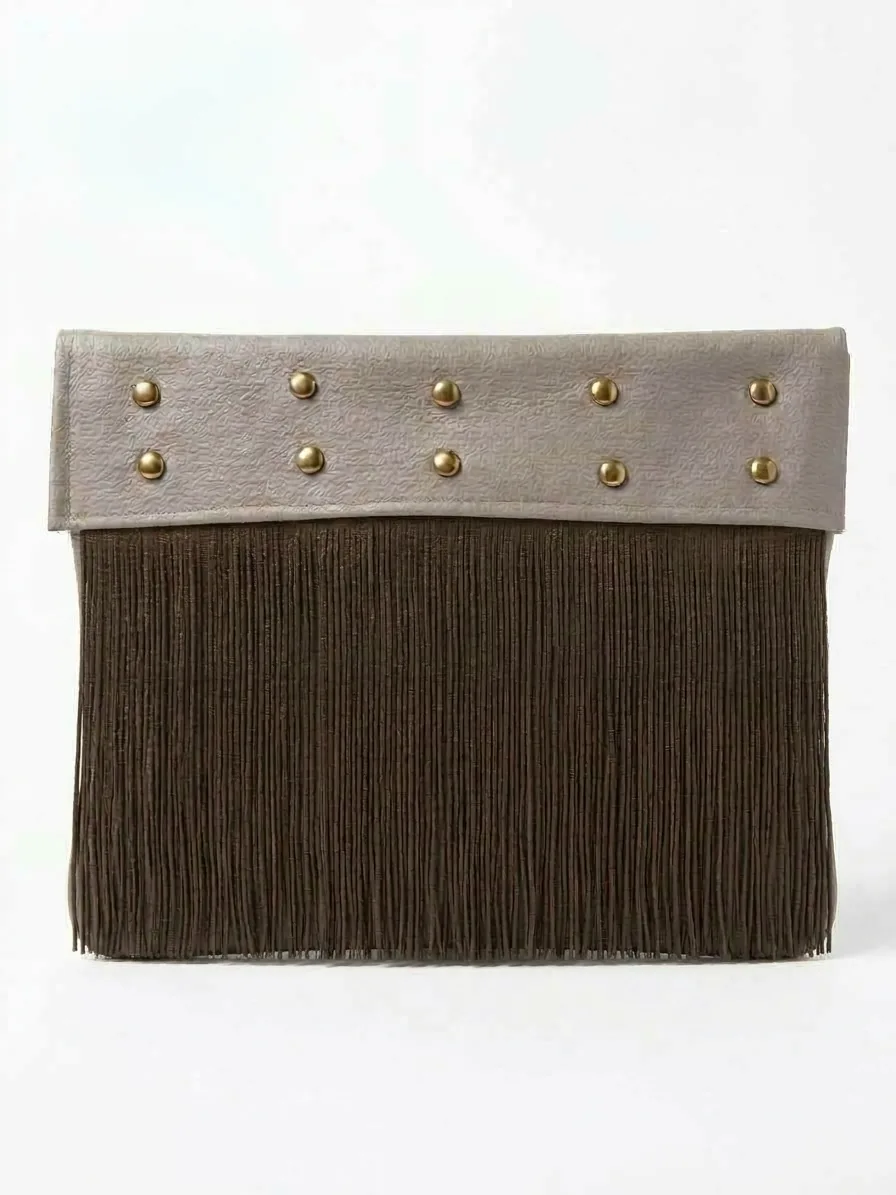
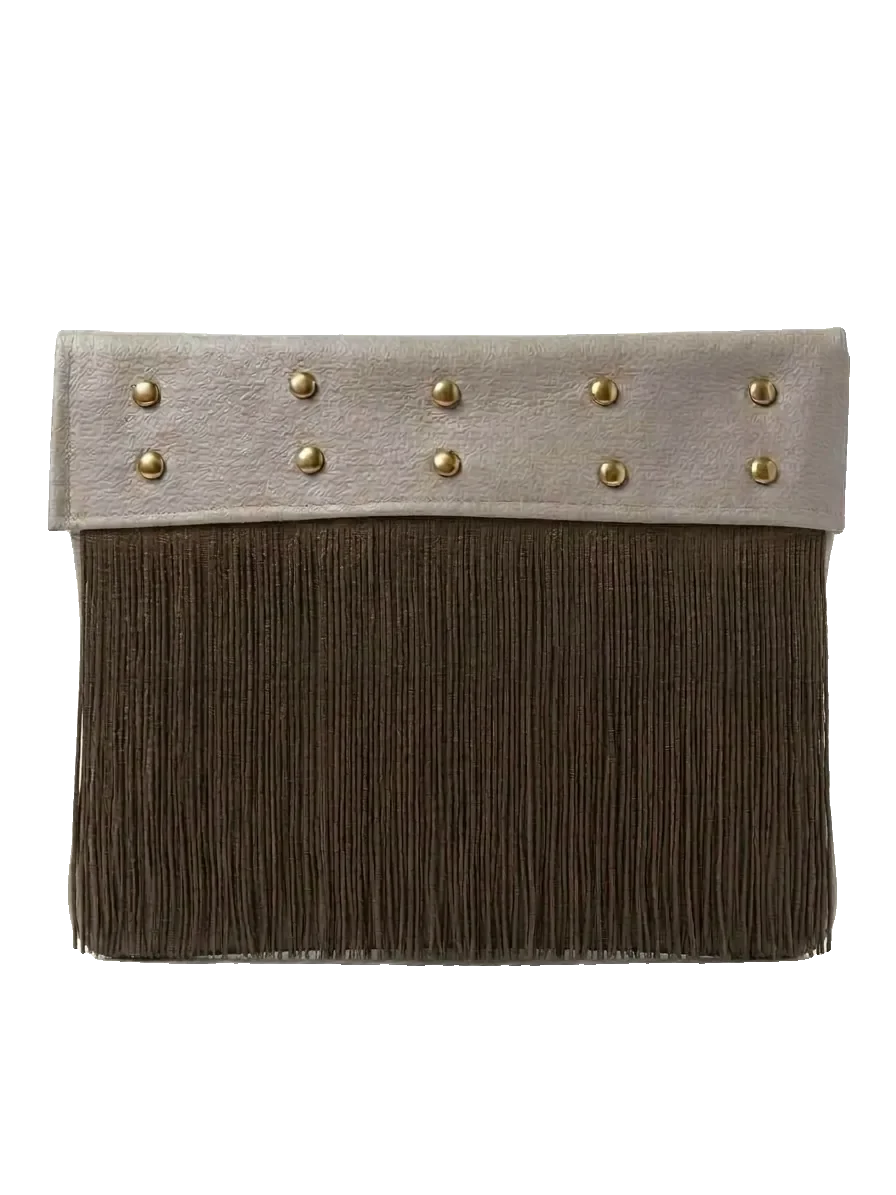
Transparent product photos, Vinted/Instagram CTAs, Barcelona and new prices
- Remove white backgrounds from product photos (transparent WebP on the
  brand paper colour); give hero slides a background so the previous
  slide doesn't show through during the wipe.
- Hero CTAs: Ver en Vinted + Ver en Instagram, collection as text link.
- Each product tile gets Ver en Vinted / Instagram buttons below it.
- Smaller Instagram marquee band at the bottom of the homepage.
- Bags are made in Barcelona (Marta is from Galicia): update copy, SEO,
  structured data and legal pages.
- Prices: bags 38,50 EUR, cases 42,90 EUR.

Claude-Session: https://claude.ai/code/session_012Rf6QvDDQZdsFYFNBKwEAB

Changed region(s): [[0.3125, 0.805, 0.9062, 0.836], [0.9062, 0.7431, 1.0, 0.805]]

diff --git a/src/components/site/ProductTile.tsx b/src/components/site/ProductTile.tsx
@@ -1,7 +1,9 @@
 import { Link } from "@tanstack/react-router";
+import { ArrowUpRight, Instagram } from "lucide-react";
 import type { CSSProperties, MouseEvent } from "react";
 
 import { formatPrice, type Product } from "@/data/products";
+import { INSTAGRAM_URL, VINTED_URL } from "@/lib/site";
 
 /** La foto del producto viaja a la ficha con una View Transition (elemento compartido). */
 const markShared = (event: MouseEvent<HTMLAnchorElement>) => {
@@ -14,47 +16,81 @@ export function ProductTile({
   priority = false,
   sizes = "(min-width: 1024px) 34vw, 82vw",
   headingLevel = 3,
+  actions = true,
 }: {
   product: Product;
   priority?: boolean;
   sizes?: string;
   headingLevel?: 2 | 3;
+  /** Botones "Ver en Vinted" / "Ver en Instagram" bajo la pieza. */
+  actions?: boolean;
 }) {
   const Heading = headingLevel === 2 ? "h2" : "h3";
   return (
-    <Link
-      to="/coleccion/$slug"
-      params={{ slug: product.slug }}
-      className="product-tile group"
-      onClick={markShared}
-      data-product-slug={product.slug}
-      data-product-family={product.family}
-      data-product-color={product.color}
-    >
-      <div className="tile-media">
-        <img
-          src={product.image}
-          srcSet={`${product.image640} 640w, ${product.image} ${product.w}w`}
-          sizes={sizes}
-          alt={product.alt}
-          width={product.w}
-          height={product.h}
-          loading={priority ? "eager" : "lazy"}
-          fetchPriority={priority ? "high" : "auto"}
-          decoding="async"
-          style={{ objectPosition: product.pos }}
-        />
-        {!product.available && <span className="tile-sold">Agotado</span>}
-        <span className="tile-pill" aria-hidden="true">Ver pieza →</span>
-      </div>
-      <div className="mt-4 flex items-baseline justify-between gap-4">
-        <Heading className="font-display text-xl md:text-2xl">{product.name}</Heading>
-        <span className="text-sm tabular-nums">{formatPrice(product.price)}</span>
-      </div>
-      <p className="mt-1 flex items-center gap-2 text-sm text-muted-foreground">
-        <span className="swatch" style={{ "--sw": product.swatch } as CSSProperties} aria-hidden="true" />
-        {product.color} · {product.strap ? "Incluye correa" : "Funda de piel"}
-      </p>
-    </Link>
+    <div className="product-card">
+      <Link
+        to="/coleccion/$slug"
+        params={{ slug: product.slug }}
+        className="product-tile group"
+        onClick={markShared}
+        data-product-slug={product.slug}
+        data-product-family={product.family}
+        data-product-color={product.color}
+      >
+        <div className="tile-media">
+          <img
+            src={product.image}
+            srcSet={`${product.image640} 640w, ${product.image} ${product.w}w`}
+            sizes={sizes}
+            alt={product.alt}
+            width={product.w}
+            height={product.h}
+            loading={priority ? "eager" : "lazy"}
+            fetchPriority={priority ? "high" : "auto"}
+            decoding="async"
+            style={{ objectPosition: product.pos }}
+          />
+          {!product.available && <span className="tile-sold">Agotado</span>}
+          <span className="tile-pill" aria-hidden="true">
+            Ver pieza →
+          </span>
+        </div>
+        <div className="mt-4 flex items-baseline justify-between gap-4">
+          <Heading className="font-display text-xl md:text-2xl">{product.name}</Heading>
+          <span className="text-sm tabular-nums">{formatPrice(product.price)}</span>
+        </div>
+        <p className="mt-1 flex items-center gap-2 text-sm text-muted-foreground">
+          <span
+            className="swatch"
+            style={{ "--sw": product.swatch } as CSSProperties}
+            aria-hidden="true"
+          />
+          {product.color} · {product.strap ? "Incluye correa" : "Funda de piel"}
+        </p>
+      </Link>
+      {actions && (
+        <div className="tile-actions">
+          <a
+            href={product.vinted || VINTED_URL}
+            target="_blank"
+            rel="noopener"
+            className="btn-solid btn-sm"
+            aria-label={`Ver ${product.name} en Vinted`}
+          >
+            Ver en Vinted <ArrowUpRight className="h-4 w-4" aria-hidden="true" strokeWidth={1.5} />
+          </a>
+          <a
+            href={INSTAGRAM_URL}
+            target="_blank"
+            rel="noopener"
+            className="btn-ghost btn-sm"
+            aria-label={`Preguntar por ${product.name} en Instagram`}
+          >
+            <Instagram className="h-4 w-4" aria-hidden="true" strokeWidth={1.5} />
+            Instagram
+          </a>
+        </div>
+      )}
+    </div>
   );
 }

diff --git a/src/routes/index.tsx b/src/routes/index.tsx
@@ -12,7 +12,7 @@ import { INSTAGRAM_HANDLE, INSTAGRAM_URL, NEWSLETTER_ENDPOINT, SITE_URL, VINTED_
 
 const TITLE = "Bolsos hechos a mano de piel con flecos | By Maam";
 const DESC =
-  "Bolsos hechos a mano de piel con flecos y tachuelas, cosidos por Marta Amarelo en Galicia. Ediciones limitadas, correa incluida. Compra en Vinted.";
+  "Bolsos hechos a mano de piel con flecos y tachuelas, cosidos por Marta Amarelo en Barcelona. Ediciones limitadas, correa incluida. Compra en Vinted.";
 
 export const Route = createFileRoute("/")({
   head: () => {
@@ -60,7 +60,7 @@ export const Route = createFileRoute("/")({
   component: Index,
 });
 
-const MARQUEE = ["Hecho a mano", "Edición limitada", "Piel real", "Flecos y tachuelas", "Envío con seguimiento", "Galicia, España"];
+const MARQUEE = ["Hecho a mano", "Edición limitada", "Piel real", "Flecos y tachuelas", "Envío con seguimiento", "Barcelona, España"];
 
 const STATS = [
   { value: "4–5 h", label: "de trabajo en cada bolso" },
@@ -181,7 +181,7 @@ function Index() {
       <section className="hero-home" aria-labelledby="hero-title">
         <div className="container-brand hero-grid">
           <div>
-            <p className="eyebrow hero-fade" style={{ ["--i" as string]: 0 }}>Handmade · Galicia · Edición limitada</p>
+            <p className="eyebrow hero-fade" style={{ ["--i" as string]: 0 }}>Handmade · Barcelona · Edición limitada</p>
             <h1 id="hero-title" className="hero-title">
               <span className="split-line hero-line"><span style={{ ["--i" as string]: 0 }}>Bolsos</span></span>{" "}
               <span className="split-line hero-line"><span style={{ ["--i" as string]: 1 }}>hechos</span></span>{" "}
@@ -191,12 +191,17 @@ function Index() {
               Bolsos y fundas de piel con flecos y tachuelas, cosidos uno a uno por Marta Amarelo. Series cortas, correa incluida.
             </p>
             <div className="hero-actions hero-fade" style={{ ["--i" as string]: 3 }}>
-              <Link to="/coleccion" className="btn-solid">Ver la colección</Link>
+              <a href={VINTED_URL} target="_blank" rel="noopener" className="btn-solid">
+                Ver en Vinted <ArrowUpRight className="h-4 w-4" aria-hidden="true" strokeWidth={1.5} />
+              </a>
               <a href={INSTAGRAM_URL} target="_blank" rel="noopener" className="btn-ghost">
                 <Instagram className="h-[18px] w-[18px]" aria-hidden="true" strokeWidth={1.5} />
-                Pedir por Instagram
+                Ver en Instagram
               </a>
             </div>
+            <p className="hero-fade mt-5 text-sm" style={{ ["--i" as string]: 4 }}>
+              <Link to="/coleccion" className="link-draw">Ver toda la colección →</Link>
+            </p>
           </div>
           <HeroStage />
         </div>
@@ -216,7 +221,7 @@ function Index() {
             <h2 id="manifiesto" className="sr-only">Cómo se hace un bolso de By Maam</h2>
             <LitWords
               className="statement mt-6"
-              text="Cada bolso lleva de cuatro a cinco horas de trabajo. Patrón, corte, costura y tachuelas salen de la misma mesa, en Galicia."
+              text="Cada bolso lleva de cuatro a cinco horas de trabajo. Patrón, corte, costura y tachuelas salen de la misma mesa, en Barcelona."
             />
           </div>
           <dl className="grid gap-8 sm:grid-cols-3 lg:grid-cols-1">
@@ -368,7 +373,7 @@ function Index() {
       </section>
 
       {/* INSTAGRAM */}
-      <section className="overflow-hidden py-14 md:py-20" aria-label="Instagram de By Maam">
+      <section className="overflow-hidden py-6 md:py-10" aria-label="Instagram de By Maam">
         <a href={INSTAGRAM_URL} target="_blank" rel="noopener" className="block" aria-label={`Abrir Instagram ${INSTAGRAM_HANDLE}`}>
           <Marquee className="marquee-xl" items={[INSTAGRAM_HANDLE, "bolsos hechos a mano", INSTAGRAM_HANDLE, "edición limitada"]} />
         </a>

diff --git a/src/styles.css b/src/styles.css
@@ -830,6 +830,7 @@ body:has(.menu-overlay[data-open="true"]) { overflow: hidden; }
   inset: 0;
   opacity: 0;
   z-index: 0;
+  background: var(--color-paper);
 }
 .hero-slide img { width: 100%; height: 100%; object-fit: cover; display: block; }
 .hero-slide.is-prev { opacity: 1; z-index: 1; }
@@ -966,7 +967,7 @@ body:has(.menu-overlay[data-open="true"]) { overflow: hidden; }
 .marquee-xl .marquee-item {
   font-family: var(--font-display);
   font-variation-settings: "SOFT" 100;
-  font-size: clamp(3rem, 9vw, 8rem);
+  font-size: clamp(1.75rem, 4.5vw, 3.75rem);
   letter-spacing: -0.04em;
   text-transform: none;
   padding-block: 0.2em;
@@ -1009,7 +1010,7 @@ body:has(.menu-overlay[data-open="true"]) { overflow: hidden; }
 }
 .rail-viewport::-webkit-scrollbar { display: none; }
 .rail-track { display: flex; gap: clamp(1rem, 2vw, 1.75rem); width: max-content; }
-.rail-tile { scroll-snap-align: start; flex: 0 0 auto; width: max(15rem, min(clamp(17rem, 40vw, 34rem), calc((100svh - 23rem) * 1.3333))); }
+.rail-tile { scroll-snap-align: start; flex: 0 0 auto; width: max(15rem, min(clamp(17rem, 40vw, 34rem), calc((100svh - 26rem) * 1.3333))); }
 
 /* Modo fijado: el scroll vertical mueve el carril. Solo con JS y movimiento permitido. */
 .rail[data-pinned="true"] .rail-stage {
@@ -1029,6 +1030,8 @@ body:has(.menu-overlay[data-open="true"]) { overflow: hidden; }
 .rail:not([data-pinned="true"]) .rail-progress { display: none; }
 
 .product-tile { display: block; color: inherit; text-decoration: none; }
+.tile-actions { display: flex; flex-wrap: wrap; gap: 0.5rem; margin-top: 1rem; }
+.tile-actions > a { flex: 1 1 auto; }
 .tile-media {
   position: relative;
   aspect-ratio: 4 / 3;

diff --git a/src/routes/__root.tsx b/src/routes/__root.tsx
@@ -43,7 +43,7 @@ const ORGANIZATION_LD = {
   name: SITE_NAME,
   alternateName: "By Maam Handmade",
   description:
-    "Bolsos y fundas de piel hechos a mano por Marta Amarelo en Galicia. Ediciones limitadas con flecos y tachuelas.",
+    "Bolsos y fundas de piel hechos a mano por Marta Amarelo en Barcelona. Ediciones limitadas con flecos y tachuelas.",
   url: SITE_URL,
   logo: LOGO_URL,
   image: OG_IMAGE,
@@ -51,7 +51,7 @@ const ORGANIZATION_LD = {
   slogan: "Bolsos hechos a mano",
   founder: { "@type": "Person", name: FOUNDER },
   areaServed: "ES",
-  address: { "@type": "PostalAddress", addressCountry: "ES", addressRegion: "Galicia" },
+  address: { "@type": "PostalAddress", addressCountry: "ES", addressLocality: "Barcelona", addressRegion: "Cataluña" },
   knowsAbout: ["bolsos hechos a mano", "bolsos de piel", "bolsos con flecos", "artesanía en piel"],
   sameAs: [INSTAGRAM_URL, TIKTOK_URL, VINTED_URL],
 };

diff --git a/src/routes/coleccion.index.tsx b/src/routes/coleccion.index.tsx
@@ -97,7 +97,7 @@ function ColeccionPage() {
           </h2>
           <div className="space-y-5 leading-relaxed text-muted-foreground" data-reveal style={{ ["--d" as string]: "150ms" }}>
             <p>
-              Los bolsos de By Maam se diseñan, se cortan y se cosen a mano en Galicia. Cada pieza combina piel, flecos largos y tachuelas doradas, bronce o plateadas, y se hace en series muy cortas: si un color se agota, normalmente no vuelve igual.
+              Los bolsos de By Maam se diseñan, se cortan y se cosen a mano en Barcelona. Cada pieza combina piel, flecos largos y tachuelas doradas, bronce o plateadas, y se hace en series muy cortas: si un color se agota, normalmente no vuelve igual.
             </p>
             <p>
               Si quieres otro color o una combinación distinta, puedes encargar un modelo personalizado. Marta responde en menos de 48 horas.

diff --git a/src/lib/webmcp.ts b/src/lib/webmcp.ts
@@ -102,7 +102,7 @@ const TOOLS: Tool[] = [
         pedidoPersonalizado: absoluteUrl("/pedidos"),
         contacto: { email: CONTACT_EMAIL, instagram: INSTAGRAM_URL, formulario: absoluteUrl("/contacto") },
         preguntasFrecuentes: absoluteUrl("/faq"),
-        notas: "Piezas de edición limitada hechas a mano por Marta Amarelo en Galicia. Envío con seguimiento. Devoluciones en 14 días.",
+        notas: "Piezas de edición limitada hechas a mano por Marta Amarelo en Barcelona. Envío con seguimiento. Devoluciones en 14 días.",
       }),
   },
 ];

diff --git a/src/components/layout/Header.tsx b/src/components/layout/Header.tsx
@@ -142,7 +142,7 @@ export function Header() {
         </nav>
         <div className="menu-foot">
           <p className="max-w-xs leading-relaxed opacity-80">
-            Bolsos de piel hechos a mano por Marta Amarelo, en Galicia. Ediciones limitadas.
+            Bolsos de piel hechos a mano por Marta Amarelo en Barcelona. Ediciones limitadas.
           </p>
           <ul className="flex flex-wrap gap-x-6 gap-y-2">
             <li><a className="link-draw" href={INSTAGRAM_URL} target="_blank" rel="noopener">Instagram {INSTAGRAM_HANDLE}</a></li>

diff --git a/src/routes/sobre-mi.tsx b/src/routes/sobre-mi.tsx
@@ -55,7 +55,7 @@ function SobrePage() {
           </div>
           <div>
             <p className="rule-label">La historia</p>
-            <h2 className="mt-6 text-3xl md:text-4xl">Marta Amarelo, 21 años, Galicia</h2>
+            <h2 className="mt-6 text-3xl md:text-4xl">Marta Amarelo, 21 años. De Galicia, cose en Barcelona</h2>
             <div className="mt-6 space-y-5 leading-relaxed text-muted-foreground">
               <p>
                 By Maam nació de las manos de Marta Amarelo, una chica de 21 años que

diff --git a/src/routes/aviso-legal.tsx b/src/routes/aviso-legal.tsx
@@ -28,7 +28,7 @@ function AvisoLegal() {
         <h2>Titular del sitio</h2>
         <p>
           Marta Amarelo, que opera bajo la marca <strong>By Maam</strong>, con actividad artesanal
-          en Galicia (España). Email de contacto:{" "}
+          en Barcelona (España). Email de contacto:{" "}
           <a href={`mailto:${CONTACT_EMAIL}`}>{CONTACT_EMAIL}</a>. Dirección web: {SITE_URL}.
         </p>
         <p className="text-xs">

diff --git a/src/routes/privacidad.tsx b/src/routes/privacidad.tsx
@@ -27,7 +27,7 @@ function Privacidad() {
       <Prose>
         <h2>Responsable</h2>
         <p>
-          Marta Amarelo (By Maam), marca personal con actividad en Galicia (España). Contacto:{" "}
+          Marta Amarelo (By Maam), marca personal con actividad en Barcelona (España). Contacto:{" "}
           <a href={`mailto:${CONTACT_EMAIL}`}>{CONTACT_EMAIL}</a>.
         </p>
         <p className="text-xs">

diff --git a/src/components/layout/Preloader.tsx b/src/components/layout/Preloader.tsx
@@ -83,7 +83,7 @@ export function Preloader() {
         <small>by</small>
         <span>maam</span>
       </div>
-      <p className="preloader-note">Handmade · Galicia</p>
+      <p className="preloader-note">Handmade · Barcelona</p>
       <div className="preloader-card">
         {run &&
           BAGS.map((p) => (

diff --git a/src/routes/coleccion.$slug.tsx b/src/routes/coleccion.$slug.tsx
@@ -85,7 +85,7 @@ function ProductPage() {
     ["Flecos", p.fringe],
     ["Herrajes", p.studs],
     ...(p.strap ? ([["Correa", "Incluida"]] as [string, string][]) : []),
-    ["Hecho en", "Galicia, a mano"],
+    ["Hecho en", "Barcelona, a mano"],
     ["Serie", "Edición limitada"],
   ];
 
